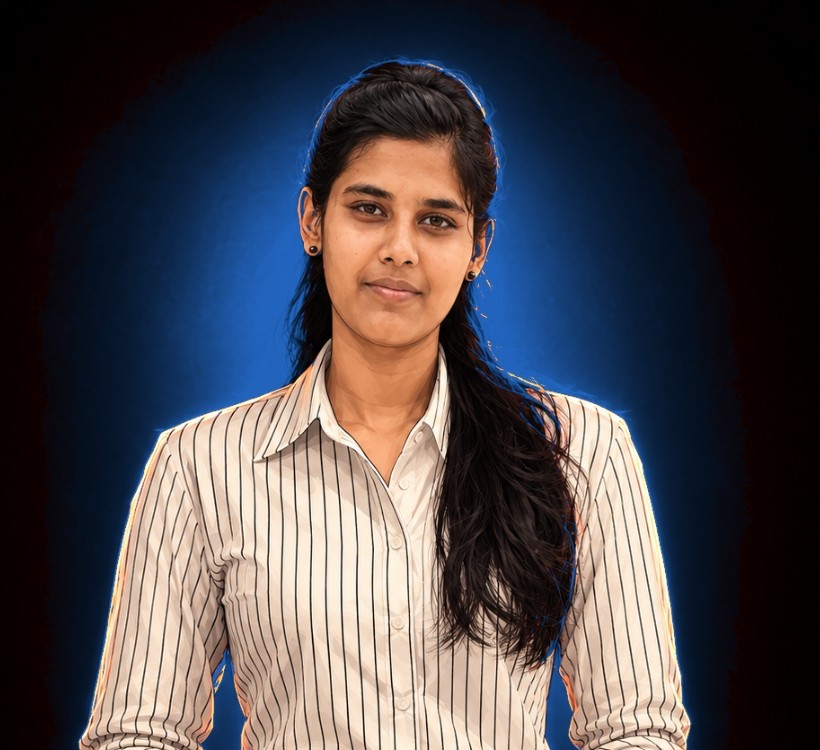
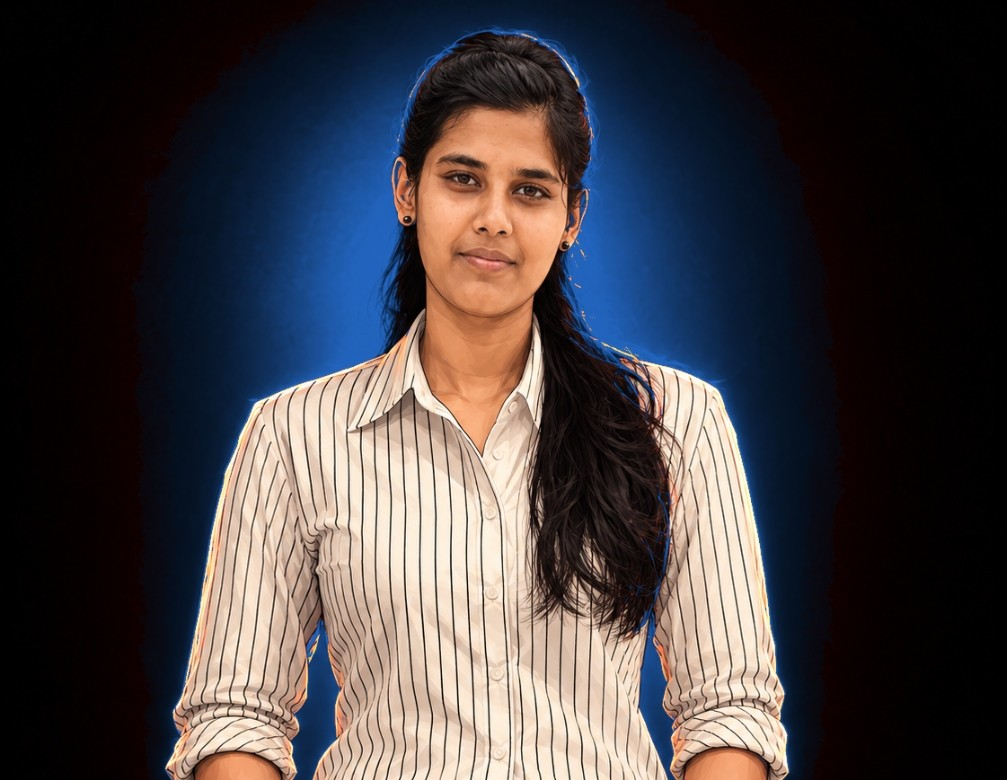
Update hero portrait to exact About Me landscape crop with distinction badge & add mild animations across all dark content boxes

diff --git a/style.css b/style.css
@@ -909,13 +909,13 @@ body::before {
 .video-frame-outer,
 .photo-frame-outer {
   position: relative;
-  width: 360px;
-  height: 420px;
+  width: 410px;
+  height: 318px;
   max-width: 100%;
-  border-radius: 28px;
+  border-radius: 22px;
   padding: 3px;
   background: linear-gradient(145deg, rgba(56, 189, 248, 0.55) 0%, rgba(103, 232, 249, 0.30) 30%, rgba(10, 20, 38, 0.6) 60%, rgba(5, 11, 24, 0.95) 100%);
-  box-shadow: var(--shadow-card), 0 0 50px rgba(56, 189, 248, 0.18), inset 0 0 30px rgba(56, 189, 248, 0.04);
+  box-shadow: var(--shadow-card), 0 0 50px rgba(56, 189, 248, 0.22), inset 0 0 30px rgba(56, 189, 248, 0.04);
   animation: heroFloat 8s ease-in-out infinite alternate;
   transition: transform 0.45s ease, box-shadow 0.45s ease;
 }
@@ -958,7 +958,7 @@ body::before {
   position: relative;
   width: 100%;
   height: 100%;
-  border-radius: 30px;
+  border-radius: 20px;
   overflow: hidden;
   background: #050B18;
   border: 1px solid rgba(56, 189, 248, 0.22);
@@ -1236,20 +1236,20 @@ body::before {
 }
 
 .hero-float-tag-1 {
-  top: 20%;
-  right: -30px;
+  top: -12px;
+  right: 32px;
   animation: floatTag1 5s ease-in-out infinite alternate;
 }
 
 .hero-float-tag-2 {
-  bottom: 28%;
-  right: -26px;
+  bottom: -14px;
+  left: 24px;
   animation: floatTag2 6s ease-in-out infinite alternate;
 }
 
 .hero-float-tag-3 {
   top: 48%;
-  left: -32px;
+  right: -36px;
   animation: floatTag3 7s ease-in-out infinite alternate;
 }
 
@@ -3740,8 +3740,8 @@ body::before {
   }
   .video-frame-outer,
   .photo-frame-outer {
-    width: 310px;
-    height: 420px;
+    width: 360px;
+    height: 280px;
   }
 }
 
@@ -3769,8 +3769,8 @@ body::before {
   }
   .video-frame-outer,
   .photo-frame-outer {
-    width: 290px;
-    height: 390px;
+    width: 330px;
+    height: 256px;
     margin: 0 auto;
   }
 
@@ -3877,8 +3877,8 @@ body::before {
   }
   .video-frame-outer,
   .photo-frame-outer {
-    width: 250px;
-    height: 340px;
+    width: 290px;
+    height: 225px;
   }
   .hero-stats {
     flex-wrap: wrap;
@@ -3961,6 +3961,221 @@ body::before {
     bottom: 20px;
     right: 20px;
   }
+}
+
+/* ============================================================
+   19b. MILD ANIMATIONS ABOVE DARK NAVY BLUE BOXES & SECTIONS
+   ============================================================ */
+
+/* 1. Luminous Traveling Light Beam on all Content Cards */
+.service-card-v2,
+.cert-card-v2,
+.skill-category-card,
+.stat-box-v2,
+.bug-card,
+.about-text-card,
+.about-profile-card,
+.project-feature-card,
+.academic-showcase-card,
+.resume-card,
+.contact-info-panel,
+.contact-form-panel,
+.tc-table-wrapper {
+  position: relative;
+  overflow: hidden;
+  border: 1px solid rgba(56, 189, 248, 0.18) !important;
+  box-shadow: 0 10px 35px rgba(0, 0, 0, 0.45), 0 0 1px rgba(56, 189, 248, 0.25);
+  transition: transform 0.35s ease, box-shadow 0.35s ease, border-color 0.35s ease;
+}
+
+/* Subtle electric-cyan scanning beam running across the top of each dark box */
+.service-card-v2::before,
+.cert-card-v2::before,
+.skill-category-card::before,
+.stat-box-v2::before,
+.bug-card::before,
+.about-text-card::before,
+.about-profile-card::before,
+.project-feature-card::before,
+.academic-showcase-card::before,
+.resume-card::before,
+.contact-info-panel::before,
+.contact-form-panel::before {
+  content: '';
+  position: absolute;
+  top: 0;
+  left: -100%;
+  width: 100%;
+  height: 2px;
+  background: linear-gradient(90deg, transparent, rgba(56, 189, 248, 0.85), rgba(103, 232, 249, 1), transparent);
+  animation: cardBeamSlide 7s cubic-bezier(0.4, 0, 0.2, 1) infinite;
+  pointer-events: none;
+  z-index: 2;
+}
+
+.service-card-v2:nth-child(2)::before { animation-delay: 1.2s; }
+.service-card-v2:nth-child(3)::before { animation-delay: 2.4s; }
+.service-card-v2:nth-child(4)::before { animation-delay: 3.6s; }
+.service-card-v2:nth-child(5)::before { animation-delay: 4.8s; }
+.service-card-v2:nth-child(6)::before { animation-delay: 6.0s; }
+
+.stat-box-v2:nth-child(2)::before { animation-delay: 1.5s; }
+.stat-box-v2:nth-child(3)::before { animation-delay: 3.0s; }
+.stat-box-v2:nth-child(4)::before { animation-delay: 4.5s; }
+
+.skill-category-card:nth-child(2)::before { animation-delay: 2.2s; }
+.skill-category-card:nth-child(3)::before { animation-delay: 4.4s; }
+
+.cert-card-v2:nth-child(odd)::before { animation-delay: 1.8s; }
+.cert-card-v2:nth-child(even)::before { animation-delay: 3.6s; }
+
+.bug-card:nth-child(2)::before { animation-delay: 2.0s; }
+.bug-card:nth-child(3)::before { animation-delay: 4.0s; }
+
+@keyframes cardBeamSlide {
+  0%   { left: -100%; opacity: 0; }
+  15%  { opacity: 1; }
+  85%  { opacity: 1; }
+  100% { left: 200%; opacity: 0; }
+}
+
+/* 2. Interactive Spotlight that gently illuminates card surfaces on hover */
+.service-card-v2::after,
+.cert-card-v2::after,
+.skill-category-card::after,
+.stat-box-v2::after,
+.bug-card::after,
+.about-text-card::after,
+.about-profile-card::after,
+.project-feature-card::after,
+.resume-card::after {
+  content: '';
+  position: absolute;
+  inset: 0;
+  background: radial-gradient(340px circle at var(--mouse-x, 50%) var(--mouse-y, 50%), rgba(56, 189, 248, 0.09), transparent 70%);
+  opacity: 0;
+  transition: opacity 0.4s ease;
+  pointer-events: none;
+  z-index: 1;
+}
+
+.service-card-v2:hover::after,
+.cert-card-v2:hover::after,
+.skill-category-card:hover::after,
+.stat-box-v2:hover::after,
+.bug-card:hover::after,
+.about-text-card:hover::after,
+.about-profile-card:hover::after,
+.project-feature-card:hover::after,
+.resume-card:hover::after {
+  opacity: 1;
+}
+
+/* 3. Mild Breathing Glow on Card Hover */
+.service-card-v2:hover,
+.cert-card-v2:hover,
+.skill-category-card:hover,
+.stat-box-v2:hover,
+.bug-card:hover,
+.academic-showcase-card:hover {
+  border-color: rgba(56, 189, 248, 0.45) !important;
+  box-shadow: 0 16px 45px rgba(0, 0, 0, 0.55), 0 0 24px rgba(56, 189, 248, 0.22) !important;
+}
+
+/* 4. Mild Animated Header Tags & Status Badges */
+.section-tag {
+  display: inline-flex;
+  align-items: center;
+  gap: 8px;
+  position: relative;
+  border: 1px solid rgba(56, 189, 248, 0.35) !important;
+  animation: tagPulse 4s ease-in-out infinite alternate;
+}
+
+@keyframes tagPulse {
+  0%   { border-color: rgba(56, 189, 248, 0.25); box-shadow: 0 0 8px rgba(56, 189, 248, 0.1); }
+  100% { border-color: rgba(103, 232, 249, 0.55); box-shadow: 0 0 18px rgba(56, 189, 248, 0.25); }
+}
+
+.section-tag::before {
+  content: '';
+  display: inline-block;
+  width: 6px;
+  height: 6px;
+  border-radius: 50%;
+  background: #38bdf8;
+  box-shadow: 0 0 8px #38bdf8;
+  animation: dotBlink 2s ease-in-out infinite;
+}
+
+@keyframes dotBlink {
+  0%, 100% { opacity: 1; transform: scale(1); }
+  50% { opacity: 0.35; transform: scale(0.65); }
+}
+
+/* 5. Animated Shimmering Text Accents */
+.section-title .accent,
+.hero-name .name-accent {
+  background: linear-gradient(135deg, #38BDF8 0%, #67E8F9 35%, #A78BFA 70%, #38BDF8 100%);
+  background-size: 200% auto;
+  -webkit-background-clip: text;
+  -webkit-text-fill-color: transparent;
+  animation: textShimmer 6s linear infinite;
+}
+
+@keyframes textShimmer {
+  0%   { background-position: 0% center; }
+  100% { background-position: 200% center; }
+}
+
+/* 6. Continuous Travelling Light Sheen on Skill Progress Bars */
+.skill-bar {
+  position: relative;
+  overflow: hidden;
+}
+
+.skill-fill::after {
+  content: '';
+  position: absolute;
+  top: 0;
+  left: 0;
+  right: 0;
+  bottom: 0;
+  background: linear-gradient(90deg, transparent 0%, rgba(255, 255, 255, 0.4) 50%, transparent 100%);
+  animation: barShimmer 3.5s ease-in-out infinite;
+}
+
+@keyframes barShimmer {
+  0%   { transform: translateX(-100%); }
+  100% { transform: translateX(100%); }
+}
+
+/* 7. Mild Breathing Glow on Verified Status & Distinction Badges */
+.status-pass {
+  animation: passGlow 3s ease-in-out infinite alternate;
+}
+
+@keyframes passGlow {
+  0%   { box-shadow: 0 0 6px rgba(34, 197, 94, 0.2); }
+  100% { box-shadow: 0 0 16px rgba(34, 197, 94, 0.5); }
+}
+
+.photo-badge-br {
+  animation: distinctionGlow 4s ease-in-out infinite alternate;
+}
+
+@keyframes distinctionGlow {
+  0%   { box-shadow: 0 4px 14px rgba(245, 158, 11, 0.25); border-color: rgba(245, 158, 11, 0.35); }
+  100% { box-shadow: 0 4px 24px rgba(245, 158, 11, 0.55), 0 0 12px rgba(245, 158, 11, 0.35); border-color: rgba(245, 158, 11, 0.75); }
+}
+
+.photo-badge-tl {
+  animation: qaVerifiedGlow 4s ease-in-out infinite alternate;
+}
+
+@keyframes qaVerifiedGlow {
+  0%   { box-shadow: 0 4px 14px rgba(56, 189, 248, 0.25); border-color: rgba(56, 189, 248, 0.35); }
+  100% { box-shadow: 0 4px 24px rgba(56, 189, 248, 0.55), 0 0 12px rgba(56, 189, 248, 0.35); border-color: rgba(56, 189, 248, 0.75); }
 }
 
 /* ===== 20. PREFERS REDUCED MOTION ===== */

diff --git a/script.js b/script.js
@@ -968,20 +968,26 @@ document.addEventListener('DOMContentLoaded', () => {
   }
 
   /* ==========================================================
-     8b. TILT CARD 3D HOVER EFFECT
+     8b. TILT CARD 3D HOVER EFFECT & INTERACTIVE CARD SPOTLIGHT
      ========================================================== */
-  if (!prefersReducedMotion && !('ontouchstart' in window)) {
-    document.querySelectorAll('.service-card-v2, .cert-card-v2, .project-feature-card, .stat-box-v2').forEach(card => {
-      card.classList.add('tilt-card');
-
+  if (!('ontouchstart' in window)) {
+    const interactiveCards = document.querySelectorAll('.service-card-v2, .cert-card-v2, .skill-category-card, .stat-box-v2, .bug-card, .about-text-card, .about-profile-card, .project-feature-card, .resume-card');
+    
+    interactiveCards.forEach(card => {
       card.addEventListener('mousemove', e => {
         const rect = card.getBoundingClientRect();
-        const x = (e.clientX - rect.left) / rect.width - 0.5;
-        const y = (e.clientY - rect.top) / rect.height - 0.5;
-        const tiltX = -(y * 8).toFixed(2);
-        const tiltY  = (x * 8).toFixed(2);
+        const x = e.clientX - rect.left;
+        const y = e.clientY - rect.top;
+        card.style.setProperty('--mouse-x', `${x}px`);
+        card.style.setProperty('--mouse-y', `${y}px`);
+
+        // Subtle 3D tilt
+        const normX = x / rect.width - 0.5;
+        const normY = y / rect.height - 0.5;
+        const tiltX = -(normY * 6).toFixed(2);
+        const tiltY  = (normX * 6).toFixed(2);
         card.style.transform = `perspective(900px) rotateX(${tiltX}deg) rotateY(${tiltY}deg) translateY(-4px)`;
-      });
+      }, { passive: true });
 
       card.addEventListener('mouseleave', () => {
         card.style.transform = '';

diff --git a/index.html b/index.html
@@ -171,7 +171,7 @@
 
           <div class="photo-frame">
             <img
-              src="Images/Jose_Ashmitha_Hero_Portrait.jpg?v=3"
+              src="Images/Jose_Ashmitha_Hero_Portrait.jpg?v=5"
               alt="Jose Ashmitha V. — Aspiring Software Tester &amp; QA Engineer"
               class="hero-portrait-img"
               loading="eager"
@@ -227,7 +227,7 @@
         <div class="about-profile-card">
           <div class="apc-photo-wrap">
             <img 
-              src="Images/Jose_Ashmitha_Hero_Portrait.jpg?v=3" 
+              src="Images/Jose_Ashmitha_Hero_Portrait.jpg?v=5" 
               alt="Jose Ashmitha V. — QA Engineer" 
               class="apc-photo"
               loading="lazy"
